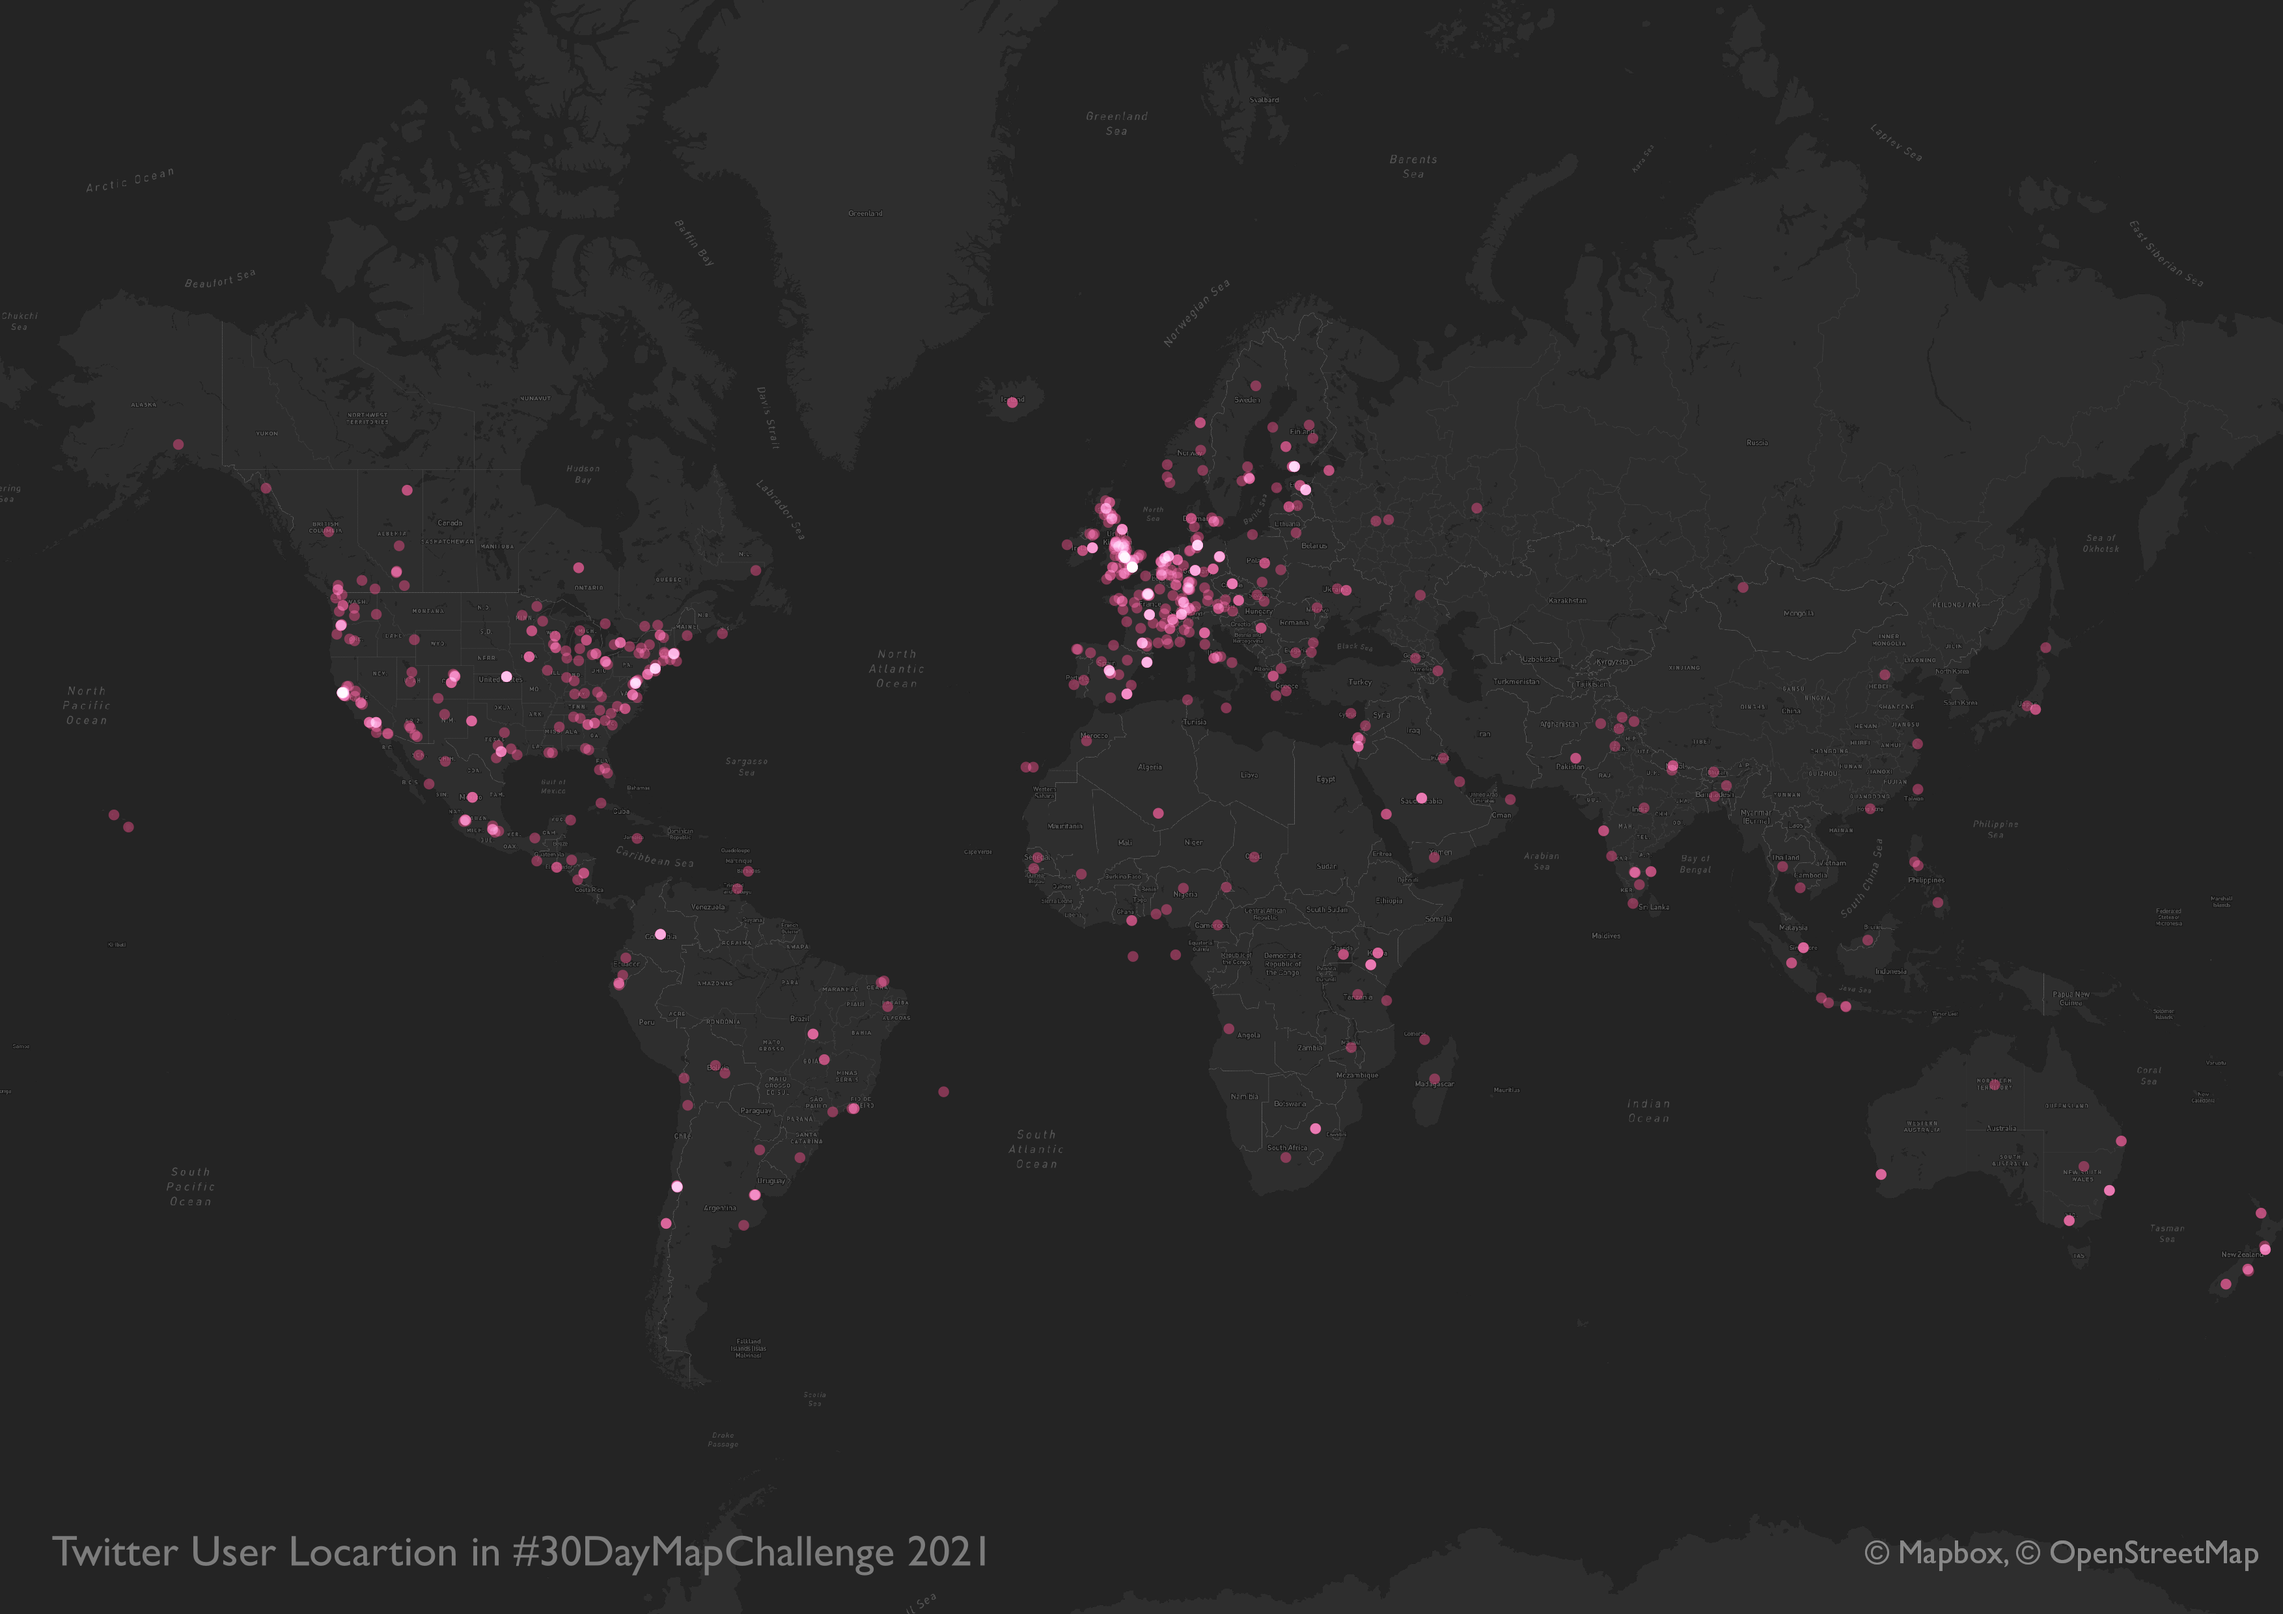
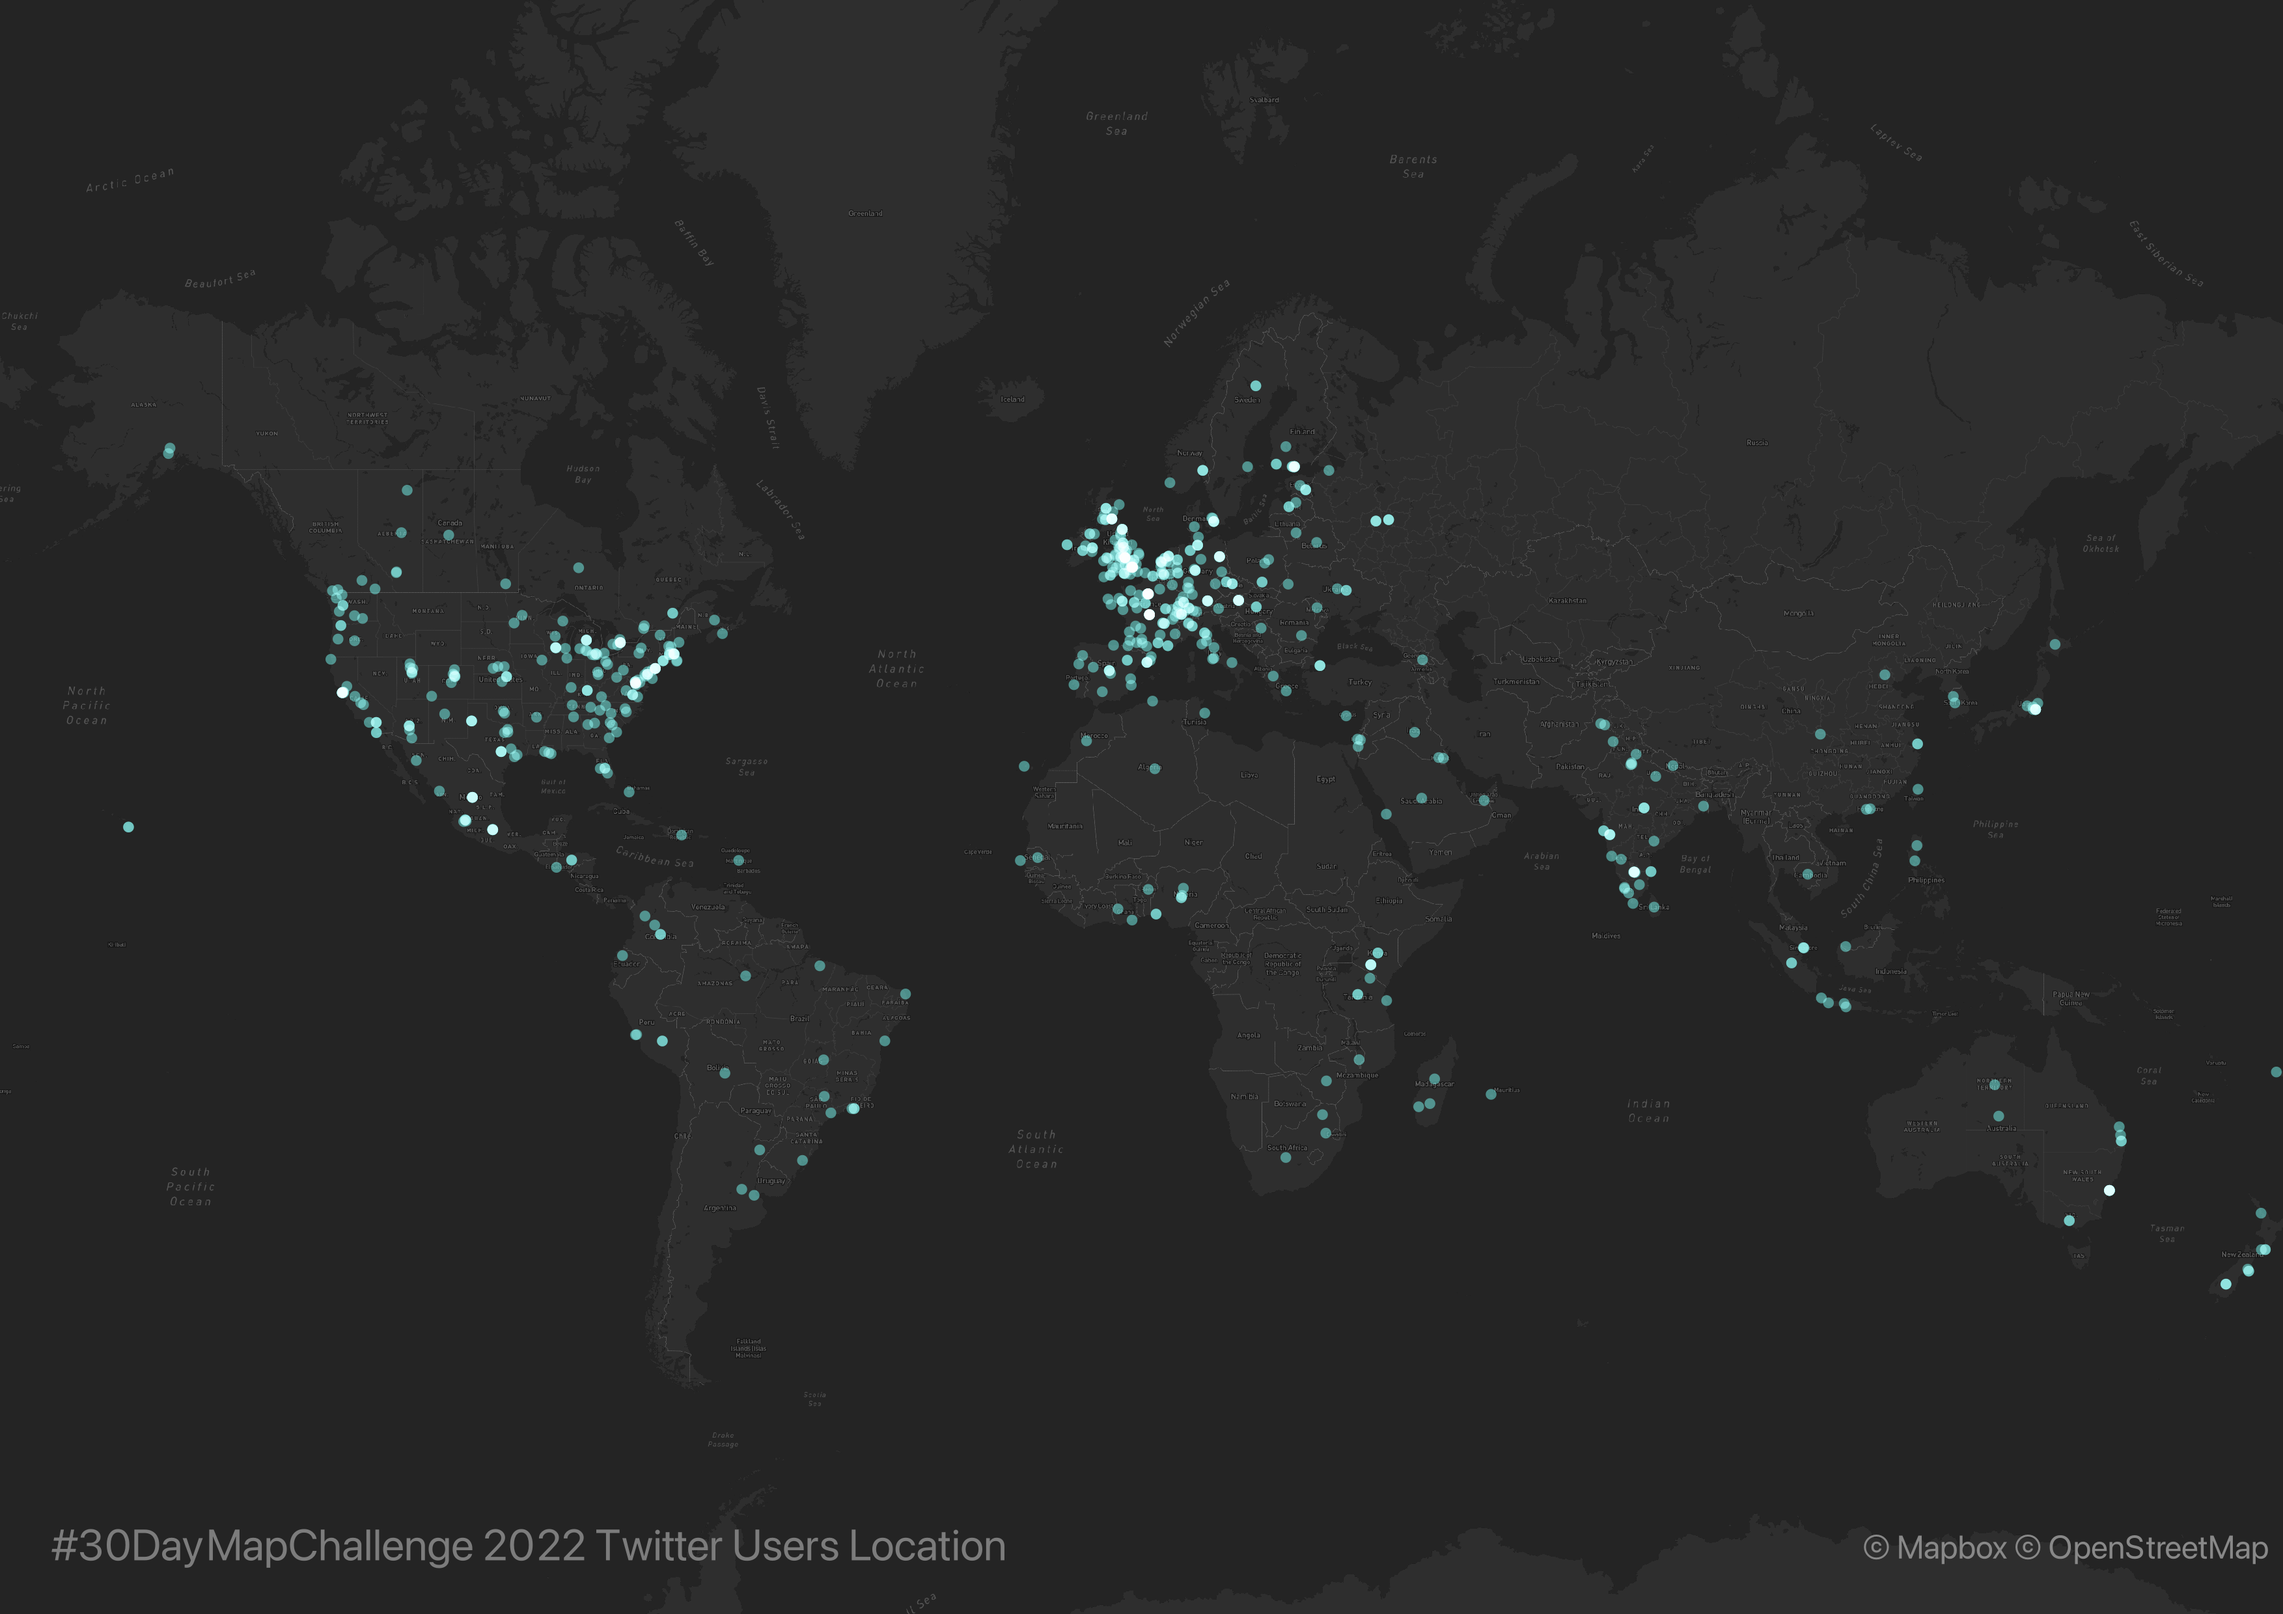
user location 2022

diff --git a/README.md b/README.md
@@ -29,7 +29,7 @@ Top favorited tweets refers to the tweets get many `liked`/:heart:. The faviorit
 |                                                                                     |                                                     |                                                                                     |                                   December 2021                                    |                                                         |                                                               |                                                                                                   |
 | :---------------------------------------------------------------------------------: | :-------------------------------------------------: | :---------------------------------------------------------------------------------: | :--------------------------------------------------------------------------------: | :-----------------------------------------------------: | :-----------------------------------------------------------: | :-----------------------------------------------------------------------------------------------: |
 |                                       **Mon**                                       |                       **Tue**                       |                                       **Wed**                                       |                                      **Thu**                                       |                         **Fri**                         |                            **Sat**                            |                                              **Sun**                                              |
-|                   **1** <br/>**[Points](daily/day01_Points.md)**                    |    **2** <br/>**[Lines](daily/day02_Lines.md)**     |                 **3** <br/>**[Polygons](daily/day03_Polygons.md)**                  |     **4** <br/>**[Colour Friday: Green](daily/day04_Colour Friday: Green.md)**     |       **5** <br/>**[Ukraine](daily/Ukraine.md)**        |       **6** <br/>**[Network](daily/day06_Network.md)**        |                          **7** <br/>**[Raster](daily/day07_Raster.md)**                           |
+|                   **1** <br/>**[Points](daily/day01_Points.md)**                    |    **2** <br/>**[Lines](daily/day02_Lines.md)**     |                 **3** <br/>**[Polygons](daily/day03_Polygons.md)**                  |     **4** <br/>**[Colour Friday: Green](daily/day04_Colour_Friday-Green.md)**      |       **5** <br/>**[Ukraine](daily/Ukraine.md)**        |       **6** <br/>**[Network](daily/day06_Network.md)**        |                          **7** <br/>**[Raster](daily/day07_Raster.md)**                           |
 |       **8** <br/>**[Data: OpenStreetMap](daily/day08_Data-OpenStreetMap.md)**       |    **9** <br/>**[Space](daily/day09_Space.md)**     |                **10** <br/>**[A bad map](daily/day10_A_bad_map.md)**                |       **11** <br/>**[Colour Friday: Red](daily/day11_Colour_Friday-Red.md)**       |   **12** <br/>**[Population](daily/day12_Scale.md)**    |  **13** <br/>**[5 minute map](daily/day13_5_minute_map.md)**  |                        **14** <br/>**[Hexagons](daily/day14_Hexagons.md)**                        |
 |               **15** <br/>**[Food/drink](daily/day15_Food/drink.md)**               |  **16** <br/>**[Minimal](daily/day16_Minimal.md)**  | **17** <br/>**[A map without a computer](daily/day17_A_map_without_a_computer.md)** |      **18** <br/>**[Colour Friday: Blue](daily/day18_Colour_Friday-Blue.md)**      |      **19** <br/>**[Globe](daily/day19_Globe.md)**      | **20** <br/> **[My favourite…](daily/day20_My_favourite.md)** | **21** <br/> **[Data: Kontur Population Dataset](daily/day21_Data-Kontur_Population_Dataset.md)** |
 |                     **22** <br/>**[NULL](daily/day22_NULL.md)**                     | **23** <br/>**[Movement](daily/day23_Movement.md)** |                  **24** <br/>**[Fantasy](daily/day24_Fantasy.md)**                  | **25** <br/>**[Colour Friday: 2 colours](daily/day25_Colour_Friday-2_colours.md)** | **26** <br/>**[Island(s)](<daily/day26_Island(s).md>)** |         **27** <br/>**[Music](daily/day27_Music.md)**         |                              **28** <br/>**[3D](daily/day28_3D.md)**                              |
@@ -39,11 +39,11 @@ Top favorited tweets refers to the tweets get many `liked`/:heart:. The faviorit
 
 Tweets with `#30DayMapChallenge` hashtag from 2022-11-01 to 2022-11-30 are in **33** languages (Twitter account setting) including `es`, `en`, `fr`, `ja`, `lv`, `it`, `nl`, `cy`, `in`, `und`, `ca`, `qme`, `de`, `fi`, `et`, `cs`, `lt`, `uk`, `da`, `ro`, `pt`, `ar`, `iw`, `tl`, `ht`, `pl`, `tr`, `eu`, `sl`, `zh`, `sv`, `ru`, `no`.
 
-## Users Location (to do)
+## Users Location
 
 By geocoding users location in their profile, I plot the map of distribution of users who involves in this event. Geocoding process is conducted via https://geocode.localfocus.nl/
 
-<!-- ![images](./user_loc.png) -->
+![images](./user_loc.png)
 
 ## Map Wall (to do)
 
@@ -53,7 +53,7 @@ The map wall includes 95\*95 maps from the 9036 images attached in #30DayMapChal
 
 ## #30DayMapChallenge stats in last year
 
-**[#30DayMapChallenge 2020](archive/2020/)**
+**[#30DayMapChallenge 2020](archive/2020/)** \
 **[#30DayMapChallenge 2021](archive/2021/)**
 
 <!-- Inspiration for the repo came from [Kalle Hallden](https://www.youtube.com/channel/UCWr0mx597DnSGLFk1WfvSkQ). -->
